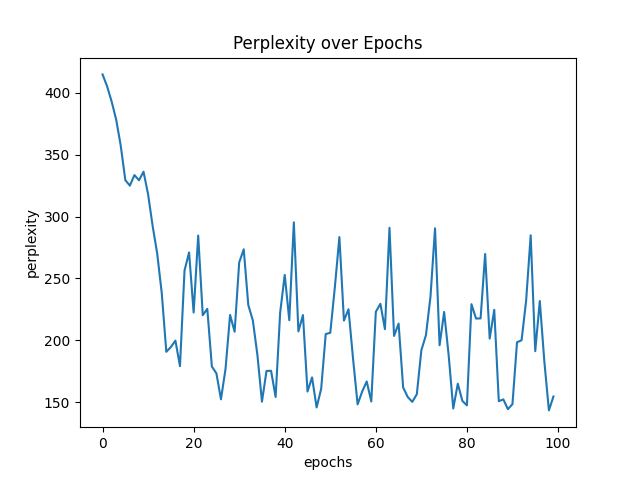
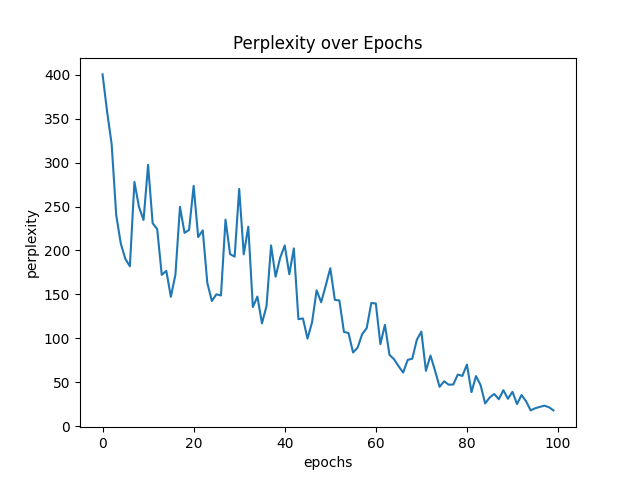
time_size 減らしたらLSTMがうまくいった

diff --git a/deep-learning-from-scratch-2/train_rnnlm.py b/deep-learning-from-scratch-2/train_rnnlm.py
@@ -10,7 +10,7 @@ from layers import *
 batch_size = 10
 wordvec_size = 100
 hidden_size = 100
-time_size = 5
+time_size = 1
 learning_rate = 0.1
 max_epoch = 100
 
